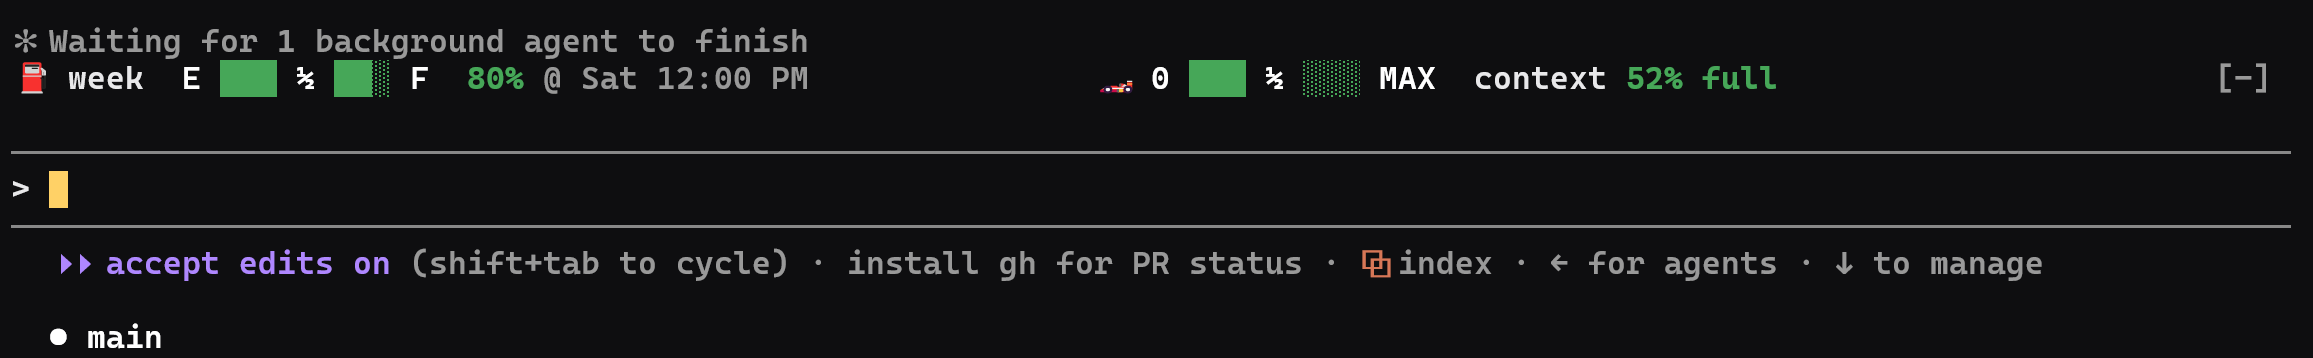
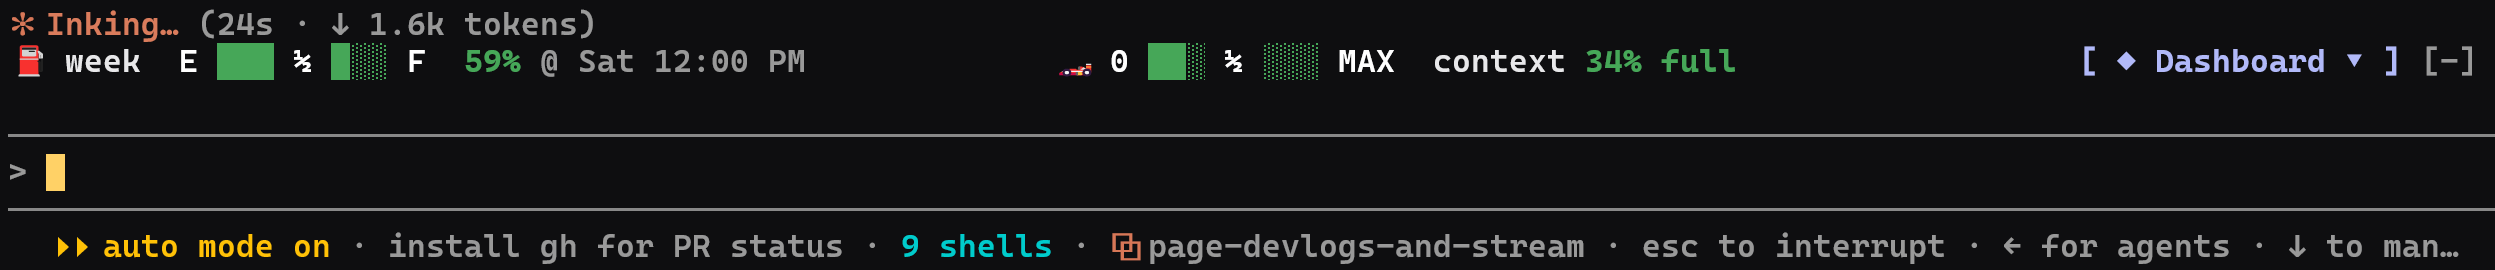
A fresh dash shot with the Dashboard button on
Claude-Session: https://claude.ai/code/session_013HKqpqULoxX9iQnTNWdsQ3

diff --git a/index.html b/index.html
@@ -38,7 +38,7 @@
   <div class="sec-head"><h2><span class="h2-race">Customize YOUR Terminal</span><span class="h2-serif">Gas Gauge and Speedometer are shown below</span></h2></div>
   <figure class="onboard-frame">
     <span class="rec" aria-hidden="true">● LIVE</span>
-    <img src="assets/onboard-dash.png" alt="A Claude Code terminal with two mods running above the prompt: Gas Gauge showing the week's plan 80% full until Saturday noon, and Speedometer showing the context window 52% full." width="2313" height="358">
+    <img src="assets/onboard-dash.png" alt="A Claude Code terminal with two mods running above the prompt: Gas Gauge showing the week's plan 59% full until Saturday noon, and Speedometer showing the context window 34% full, with the Dashboard button on the right." width="2495" height="270">
     <figcaption>
       <a class="onboard-tag" href="gas-gauge.html" style="--live: var(--soft)"><b>Gas Gauge</b><span>how much of your plan is left</span></a>
       <a class="onboard-tag" href="speedometer.html" style="--live: var(--soft)"><b>Speedometer</b><span>how full the context window is</span></a>
